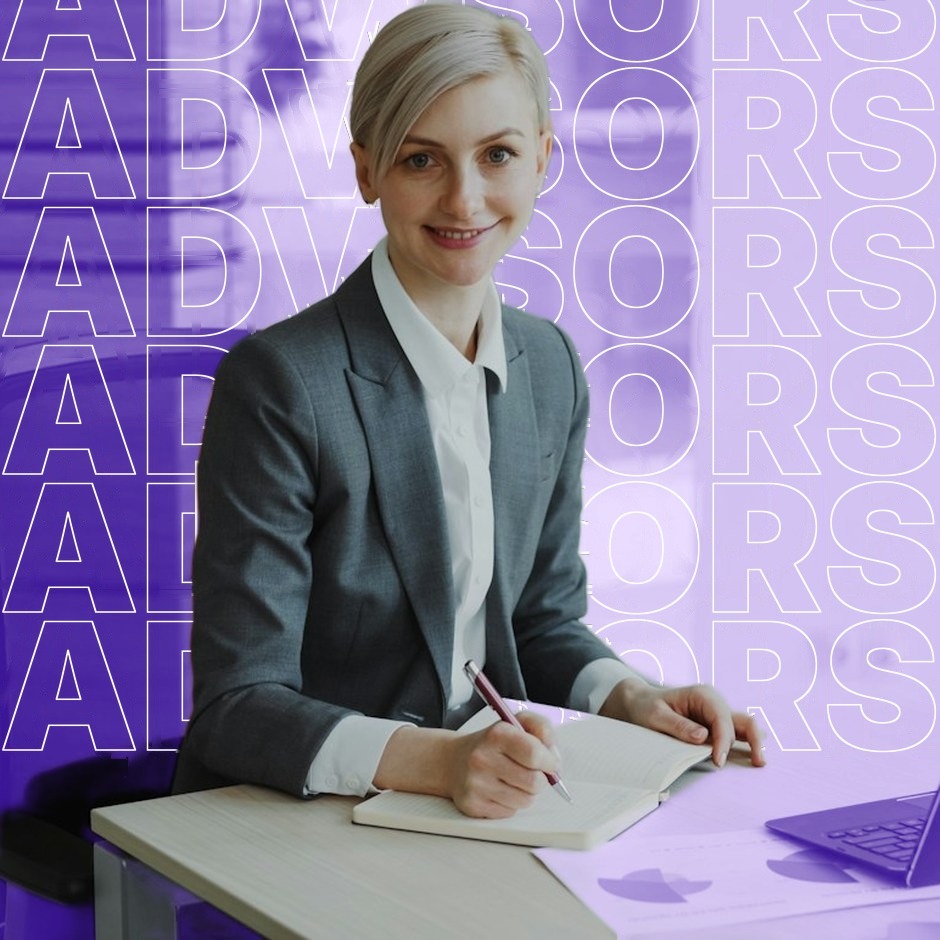
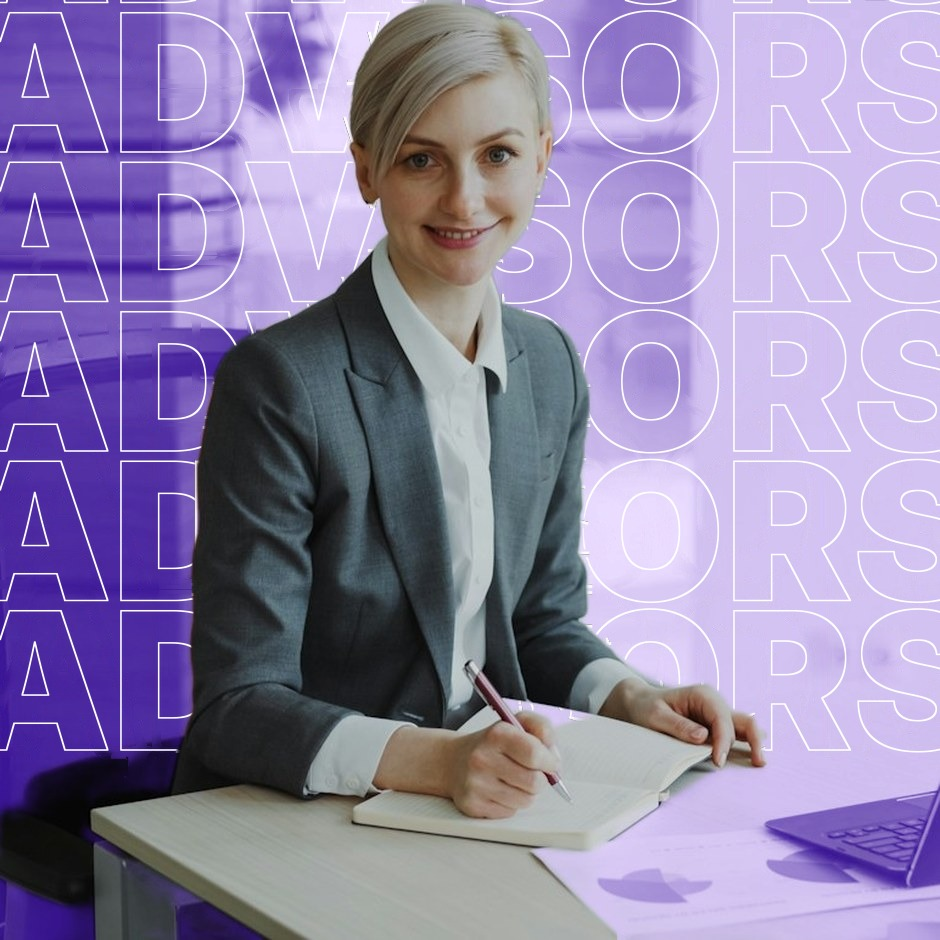
Wave File Without Fear: type bleeds off edges, light blue pricing border, hairline dashboard border (#881)
* Wave File Without Fear: ADVISORS outline type, grey border on dashboard image

Claude-Session: https://claude.ai/code/session_01AHeBdwKD9QkJMowmgS1qS1

* Wave File Without Fear: light blue border on article cards

Claude-Session: https://claude.ai/code/session_01AHeBdwKD9QkJMowmgS1qS1

* Wave File Without Fear: ADVISORS type bleeds off edges, light blue pricing border, hairline dashboard border

Claude-Session: https://claude.ai/code/session_01AHeBdwKD9QkJMowmgS1qS1

---------

diff --git a/wave-file-without-fear/index.html b/wave-file-without-fear/index.html
@@ -171,9 +171,9 @@ h2.sec{font-size:60px;line-height:1.02;text-align:center;text-wrap:balance}
 .tog{display:flex;align-items:center;gap:18px}
 .tog .save{display:flex;align-items:center;gap:7px;color:var(--purple);font:700 13px var(--sans);letter-spacing:.08em;text-transform:uppercase;white-space:nowrap}
 .tog .save svg{width:15px;height:15px;fill:currentColor}
-.prices{display:grid;grid-template-columns:1fr 1fr;margin-top:48px;border:1.5px solid var(--navy);border-radius:24px;overflow:hidden;background:#fff}
+.prices{display:grid;grid-template-columns:1fr 1fr;margin-top:48px;border:1.5px solid #a9d3f7;border-radius:24px;overflow:hidden;background:#fff}
 .pc{position:relative;display:flex;flex-direction:column}
-.pc+.pc{border-left:1.5px solid var(--navy)}
+.pc+.pc{border-left:1.5px solid #a9d3f7}
 .pc .head{background:#eaf5ff;color:var(--navy);padding:40px 44px 40px}
 .pc.pro .head{background:var(--navy);color:#fff}
 .pc .tag{display:flex;align-items:center;gap:9px;font:700 22px var(--sans)}
@@ -462,7 +462,7 @@ html body nav.back:not(.sb-panel):not(:has(>div))>a,html body nav.back:not(.sb-p
       <div class="st n"><div class="big">9<small>out of 10</small></div><p>Wave small business owners say <b>Wave is easier</b> than QuickBooks.</p></div>
       <div class="st ph"><img src="img/stat-photo-duo.jpg" alt="A man in full colour drives a screw into a wooden frame, the desert behind him tinted purple"></div>
       <div class="st s"><div class="big">92%</div><p>of Wave small business owners who switched from QuickBooks agree <b>Wave offers more value.</b></p></div>
-      <div class="r2"><div class="st ph" style="border:2px solid #dcdcdc"><img src="img/dashboard.jpg" alt="The Wave dashboard with an expenses breakdown donut chart and a cash flow bar chart" style="object-position:left top"></div><div class="st ph"><img src="img/laptop-duo.jpg" alt="A woman in full colour works on her laptop, the kitchen behind her tinted pink"></div></div>
+      <div class="r2"><div class="st ph" style="border:1.5px solid #c9ccd2"><img src="img/dashboard.jpg" alt="The Wave dashboard with an expenses breakdown donut chart and a cash flow bar chart" style="object-position:left top"></div><div class="st ph"><img src="img/laptop-duo.jpg" alt="A woman in full colour works on her laptop, the kitchen behind her tinted pink"></div></div>
     </div>
   </div>
 </section>
